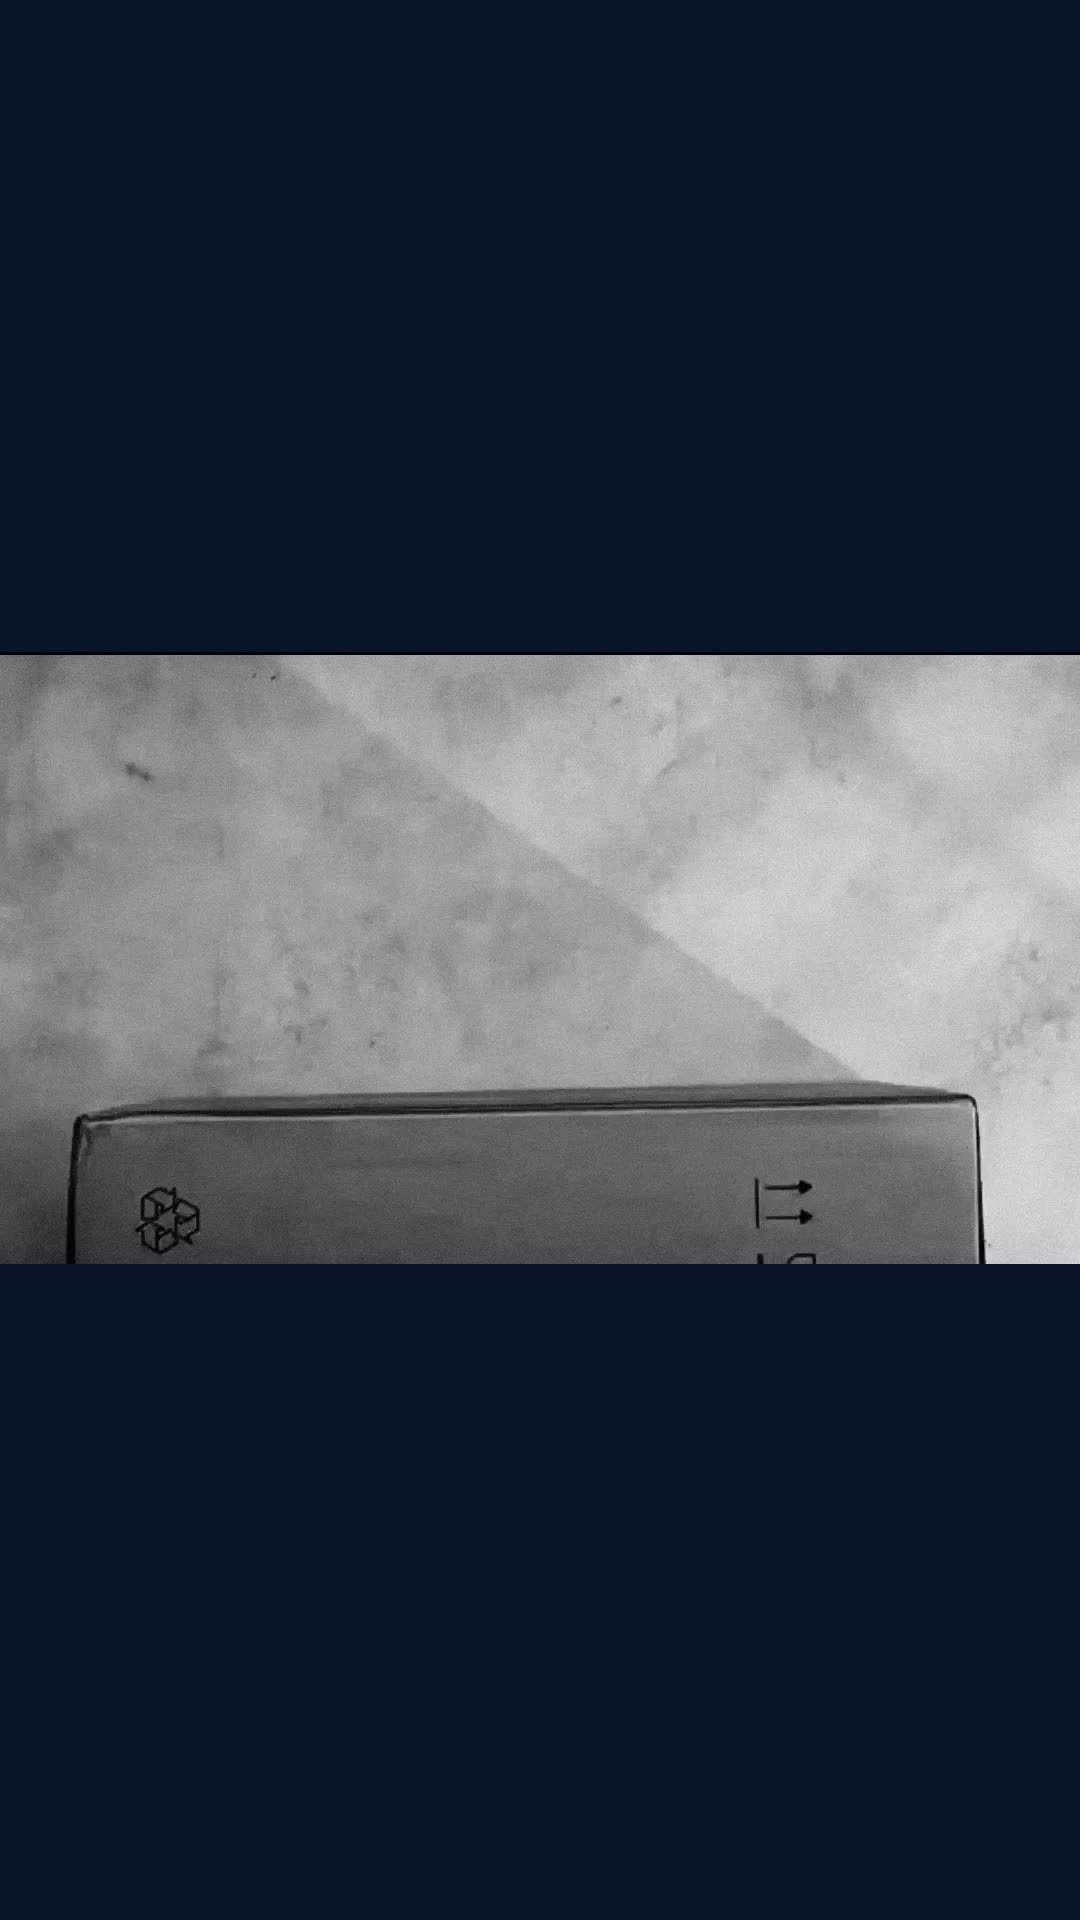
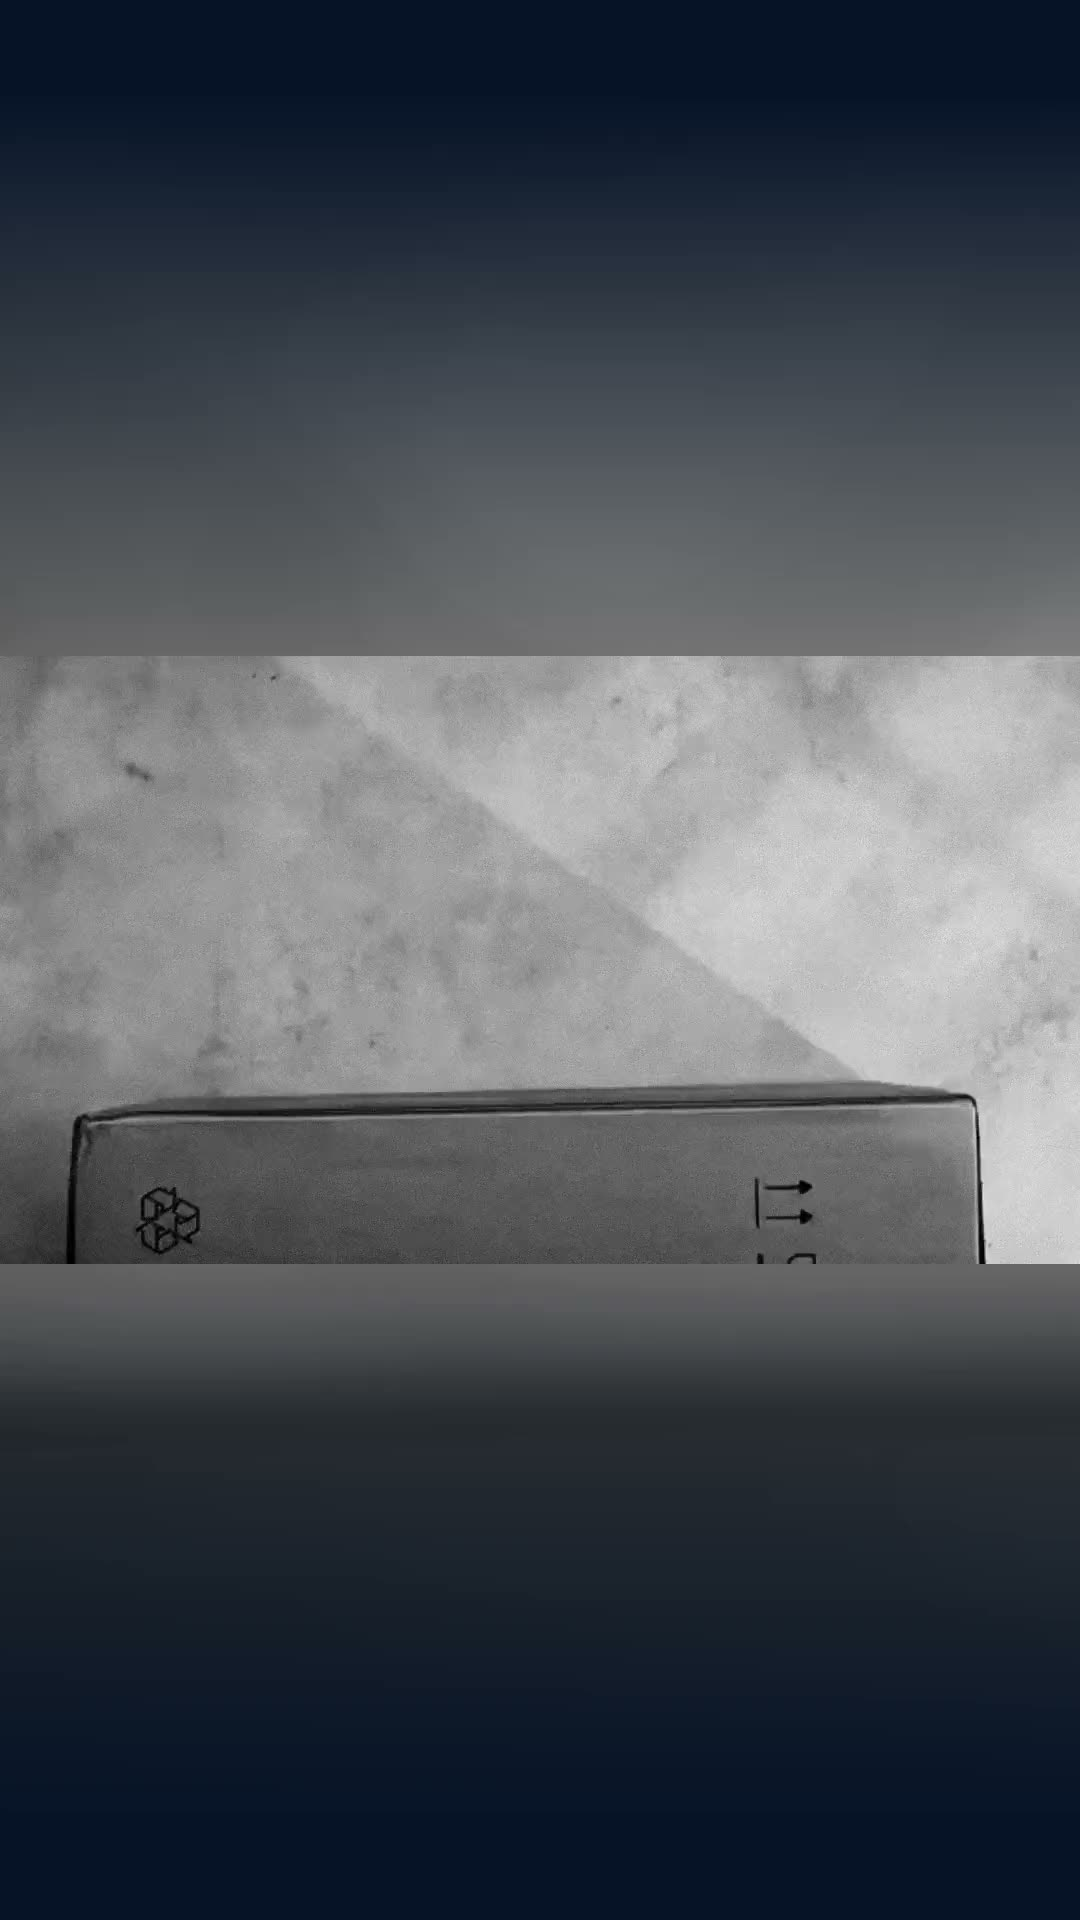
Polish the intro: progress line, grade and a fuller phone cut
- Progress line: a 2px ice line along the bottom fills with the intro
  (requestAnimationFrame while it plays).
- One grade over both cuts, as page layers so the files stay the same
  size: blacks lifted to the brand navy (navy layer, mix-blend-mode
  lighten, so whites and the logo stay white), a soft vignette and a
  fine moving film grain (SVG noise, soft-light, 16%).
- Phone cut re-rendered from video/1101 (1).mp4: during footage frames
  (0-7, 16-41, 50-69, 78-109 at 30fps) an enlarged, blurred and darkened
  copy of the 1080x608 band fills the frame and fades to navy at the top
  and bottom; text cards and the logo keep plain navy (a fill there left
  a glow around the band). MP4 2.2 MB, WebM 1.2 MB, poster from the new
  first frame.

diff --git a/src/scripts/system/hero-intro.ts b/src/scripts/system/hero-intro.ts
@@ -6,6 +6,7 @@
 // (smooth scroll paused too). The intro doubles as a loading screen: once it can play to the
 // end, the montage loads behind it, so it starts the moment the intro ends. `hero:intro` tells
 // the montage (src/scripts/system/media.ts) to wait, load or start.
+// A thin ice line along the bottom shows how far through it is.
 // The button skips the intro while it plays and replays it afterwards (WCAG 2.2.2). Keyboard
 // focus moving anywhere else, a slow connection or a blocked autoplay all go straight to the page.
 
@@ -27,7 +28,16 @@ export function initHeroIntro() {
   if (!video || !button) return;
   const playing = () => hero.classList.contains('is-intro-playing');
   const announce = () => hero.dispatchEvent(new CustomEvent('hero:intro', { bubbles: true }));
+  const bar = hero.querySelector<HTMLElement>('[data-intro-progress]');
   let timer = 0;
+  let frame = 0;
+
+  // The progress line follows the video every frame while it plays.
+  const setProgress = (value: number) => bar?.style.setProperty('--intro-progress', String(value));
+  const track = () => {
+    setProgress(Math.min(1, video.currentTime / (video.duration || 6.2)));
+    if (playing()) frame = requestAnimationFrame(track);
+  };
 
   // Sources are added on play, for the cut that fits the screen, so nobody downloads both.
   const phone = window.matchMedia('(max-width: 767px)');
@@ -55,6 +65,7 @@ export function initHeroIntro() {
 
   const finish = () => {
     clearTimeout(timer);
+    cancelAnimationFrame(frame);
     video.pause();
     hero.classList.remove('is-intro-playing');
     lockScroll(false);
@@ -65,6 +76,7 @@ export function initHeroIntro() {
   const play = () => {
     load();
     video.currentTime = 0;
+    setProgress(0);
     hero.classList.add('is-intro-playing');
     lockScroll(true);
     announce();
@@ -85,6 +97,8 @@ export function initHeroIntro() {
   // Once it plays, end on time even if it stalls part-way.
   video.addEventListener('playing', () => {
     window.setTimeout(buffered, 1500); // in case canplaythrough never fires
+    cancelAnimationFrame(frame);
+    frame = requestAnimationFrame(track);
     clearTimeout(timer);
     const left = (video.duration || 6.2) - video.currentTime;
     timer = window.setTimeout(finish, (left + 2) * 1000);
